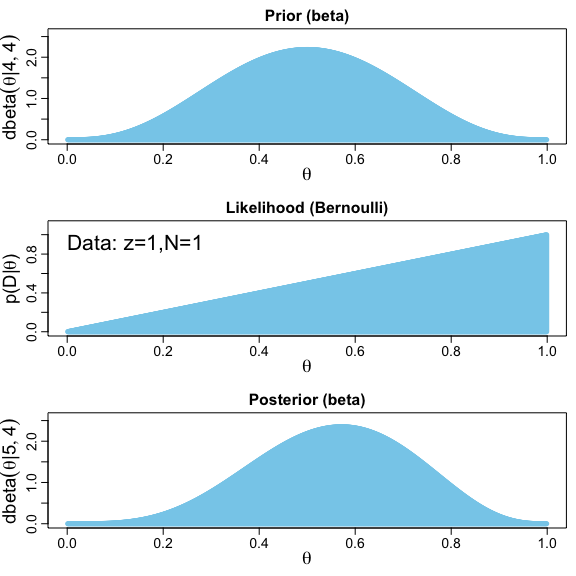
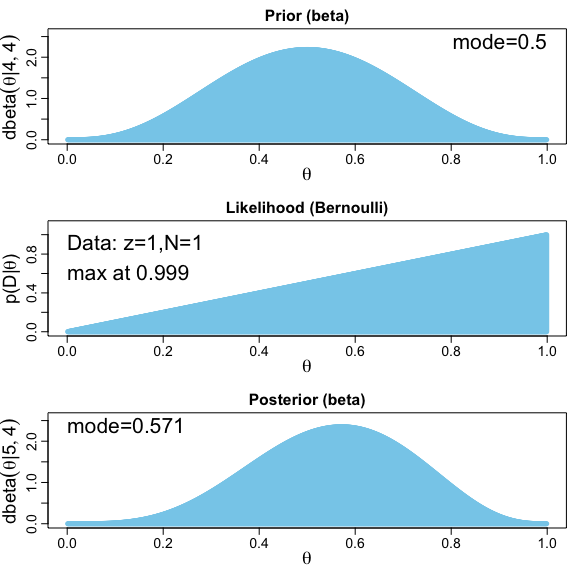
Completed through 6.3

Changed region(s): [[0.125, 0.4375, 0.3438, 0.5], [0.7812, 0.0625, 0.9688, 0.0938], [0.125, 0.7188, 0.3125, 0.75]]

diff --git a/Ch6_Problems.md b/Ch6_Problems.md
@@ -9,7 +9,9 @@ February 11, 2018
     -   [6.1B Use posterior from the last flip as the new prior](#b-use-posterior-from-the-last-flip-as-the-new-prior)
     -   [6.1C Observe a tails on the 3rd flip.](#c-observe-a-tails-on-the-3rd-flip.)
     -   [6.1D Change the order of the observed data](#d-change-the-order-of-the-observed-data)
--   [Exercise 6.2](#exercise-6.2)
+-   [Exercise 6.2 Election Polling](#exercise-6.2-election-polling)
+    -   [6.2A](#a)
+    -   [6.2B](#b)
 -   [Exercise 6.3](#exercise-6.3)
 -   [Exercise 6.4](#exercise-6.4)
 -   [Exercise 6.5](#exercise-6.5)
@@ -33,9 +35,19 @@ A beta posterior distribution is of the form **B(*θ* | z + a, N - z + b)** wher
 Using the `BernBeta` function associated with programs from the book, we get:
 
 ``` r
+source("/Users/bhoeft/Desktop/temp/DBDA Programs/DBDA2E-utilities.R")
+```
+
+
+    *********************************************************************
+    Kruschke, J. K. (2015). Doing Bayesian Data Analysis, Second Edition:
+    A Tutorial with R, JAGS, and Stan. Academic Press / Elsevier.
+    *********************************************************************
+
+``` r
 source("/Users/bhoeft/Desktop/temp/DBDA Programs/BernBeta.R")
 # a = 4, b = 4 for beta prior; observe 1 head from 1 flip. 
-BernBeta(priorBetaAB = c(4, 4), Data = c(1))
+BernBeta(priorBetaAB = c(4, 4), Data = c(1), showCentTend="Mode")
 ```
 
 ![](Ch6_Problems_files/figure-markdown_github/unnamed-chunk-1-1.png)
@@ -63,7 +75,7 @@ Here a = 5, and b = 4 as our beta distribution shape parameters. They account fo
 
 ``` r
 # a = 5, b = 4 for beta prior; 1 for observing 1 heads
-BernBeta(priorBetaAB = c(5, 4), Data = c(1))
+BernBeta(priorBetaAB = c(5, 4), Data = c(1), showCentTend="Mode")
 ```
 
 ![](Ch6_Problems_files/figure-markdown_github/unnamed-chunk-3-1.png)
@@ -78,7 +90,7 @@ Using the posterior from the last flip (accounts for 2 heads in 2 flips per the 
 
 ``` r
 # a = 6, b = 4 for beta prior; 1 for observing 1 heads
-BernBeta(priorBetaAB = c(6, 4), Data = c(0))
+BernBeta(priorBetaAB = c(6, 4), Data = c(0), showCentTend="Mode")
 ```
 
 ![](Ch6_Problems_files/figure-markdown_github/unnamed-chunk-4-1.png)
@@ -94,7 +106,7 @@ If you changed the order of the observed flips from **Head**, **Head**, **Tail**
 ``` r
 # Data observed previously is T, H. So B(theta | 1 + 4, 2 - 1 + 4) -> B(theta | 5, 5) is new prior
 # toss a Head on final toss
-BernBeta(priorBetaAB = c(5, 5), Data = c(1))
+BernBeta(priorBetaAB = c(5, 5), Data = c(1), showCentTend="Mode")
 ```
 
 ![](Ch6_Problems_files/figure-markdown_github/unnamed-chunk-5-1.png)
@@ -103,8 +115,45 @@ BernBeta(priorBetaAB = c(5, 5), Data = c(1))
 
 We get the same final posterior form as before regardless of ordering of the 3 coin tosses. The posterior distribution is of the identical form **B(*θ* | 6, 5)** from **6.1C**.
 
-Exercise 6.2
-------------
+Exercise 6.2 Election Polling
+-----------------------------
+
+To connect high-density intervals to the real world. Suppose an election is coming up for Candidate A vs. B. *A recently published newspaper poll says that of 100 randomly sampled people, 58 preferred candidate A*.
+
+### 6.2A
+
+Suppose prior to reading the poll, your belief about who would win was **uniform**. What's your 95% HDI of your beliefs now having read the poll? A uniform beta distribution is of the form **B(*θ* | 1, 1)**
+
+``` r
+prior_beliefs <- c(1, 1) # shape a and b parameters.
+polling_observations <- c(rep(1, 58), rep(0, 100-58))
+BernBeta(priorBetaAB = prior_beliefs,
+         Data = polling_observations,
+         showHDI = TRUE,
+         showCentTend = "Mode")
+```
+
+![](Ch6_Problems_files/figure-markdown_github/unnamed-chunk-6-1.png)
+
+    [1] 59 43
+
+### 6.2B
+
+Say you conduct a follow up poll from the one you read about, and 57 of 100 people randomly sampled prefer candidate A. Now, what is the 95% highest density interval of your posterior beliefs that the general population prefers candidate A to B?
+
+``` r
+updated_prior_beliefs <- prior_beliefs + c(58, 100-58) # updated prior shape a and b parameters.
+polling_observations2 <- c(rep(1, 57), rep(0, 100-57)) # my personal poll
+
+BernBeta(priorBetaAB = updated_prior_beliefs,
+         Data = polling_observations2,
+         showHDI = TRUE,
+         showCentTend = "Mode")
+```
+
+![](Ch6_Problems_files/figure-markdown_github/unnamed-chunk-7-1.png)
+
+    [1] 116  86
 
 Exercise 6.3
 ------------
